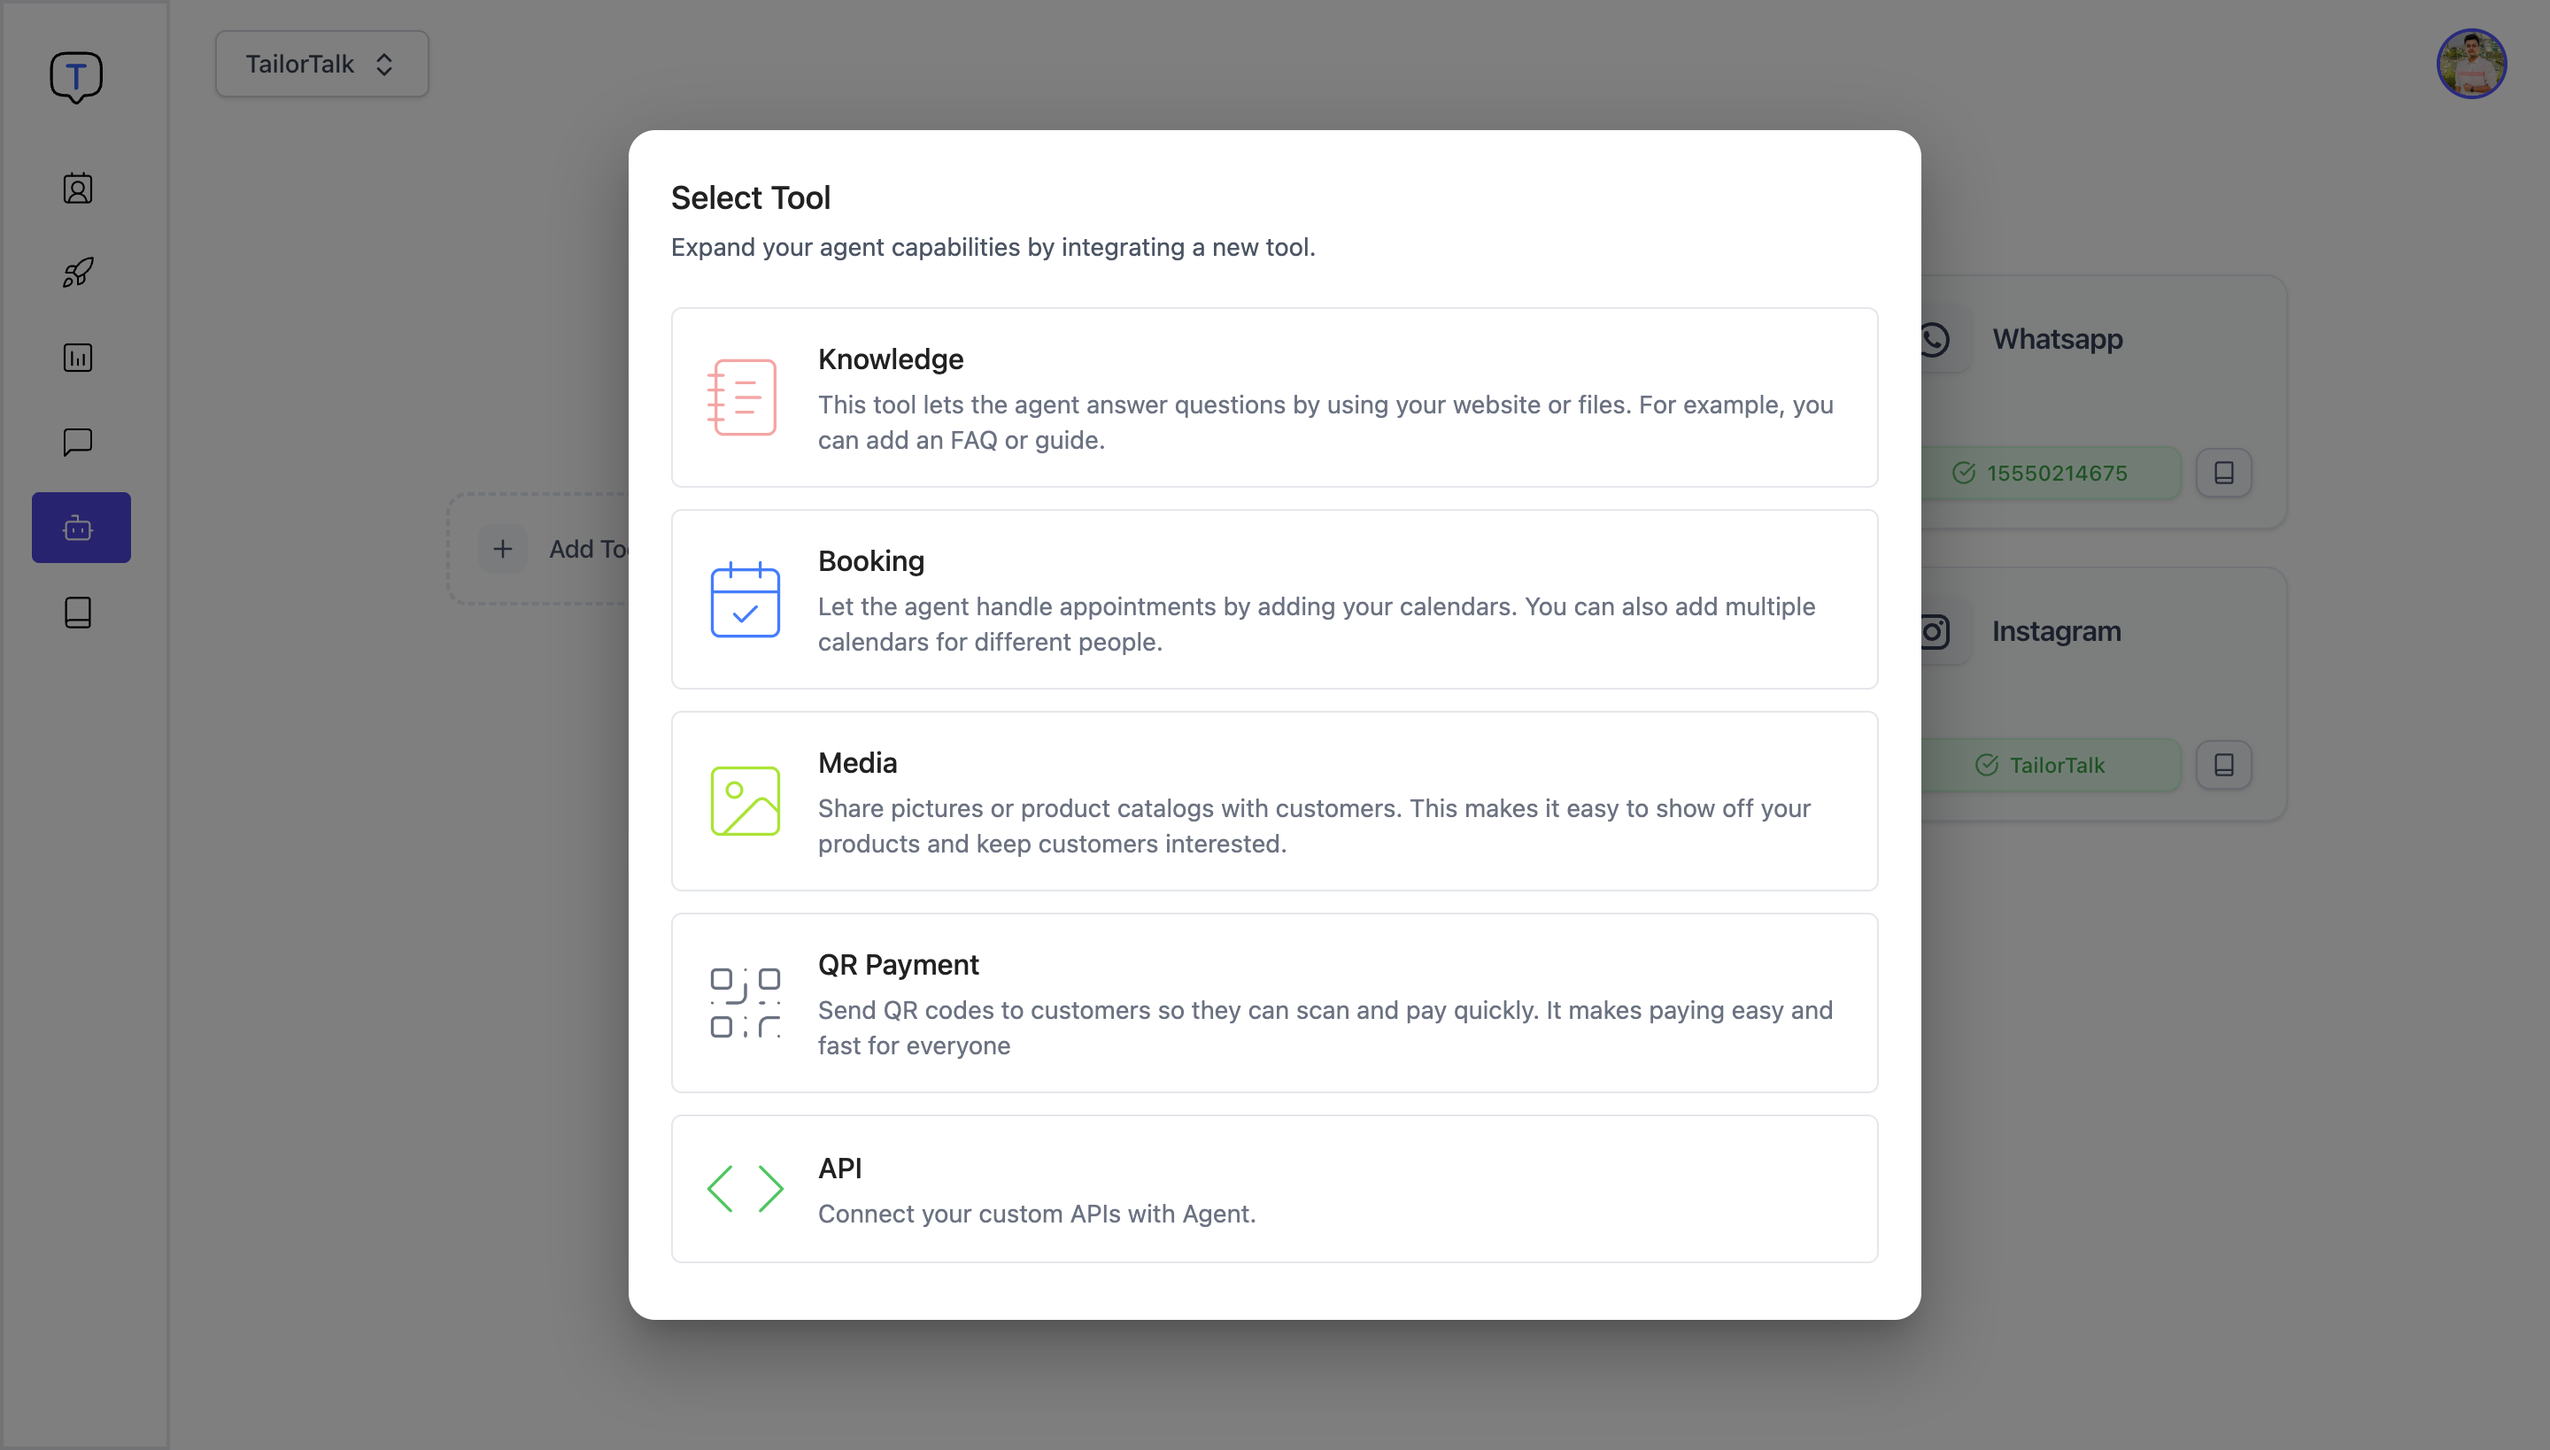
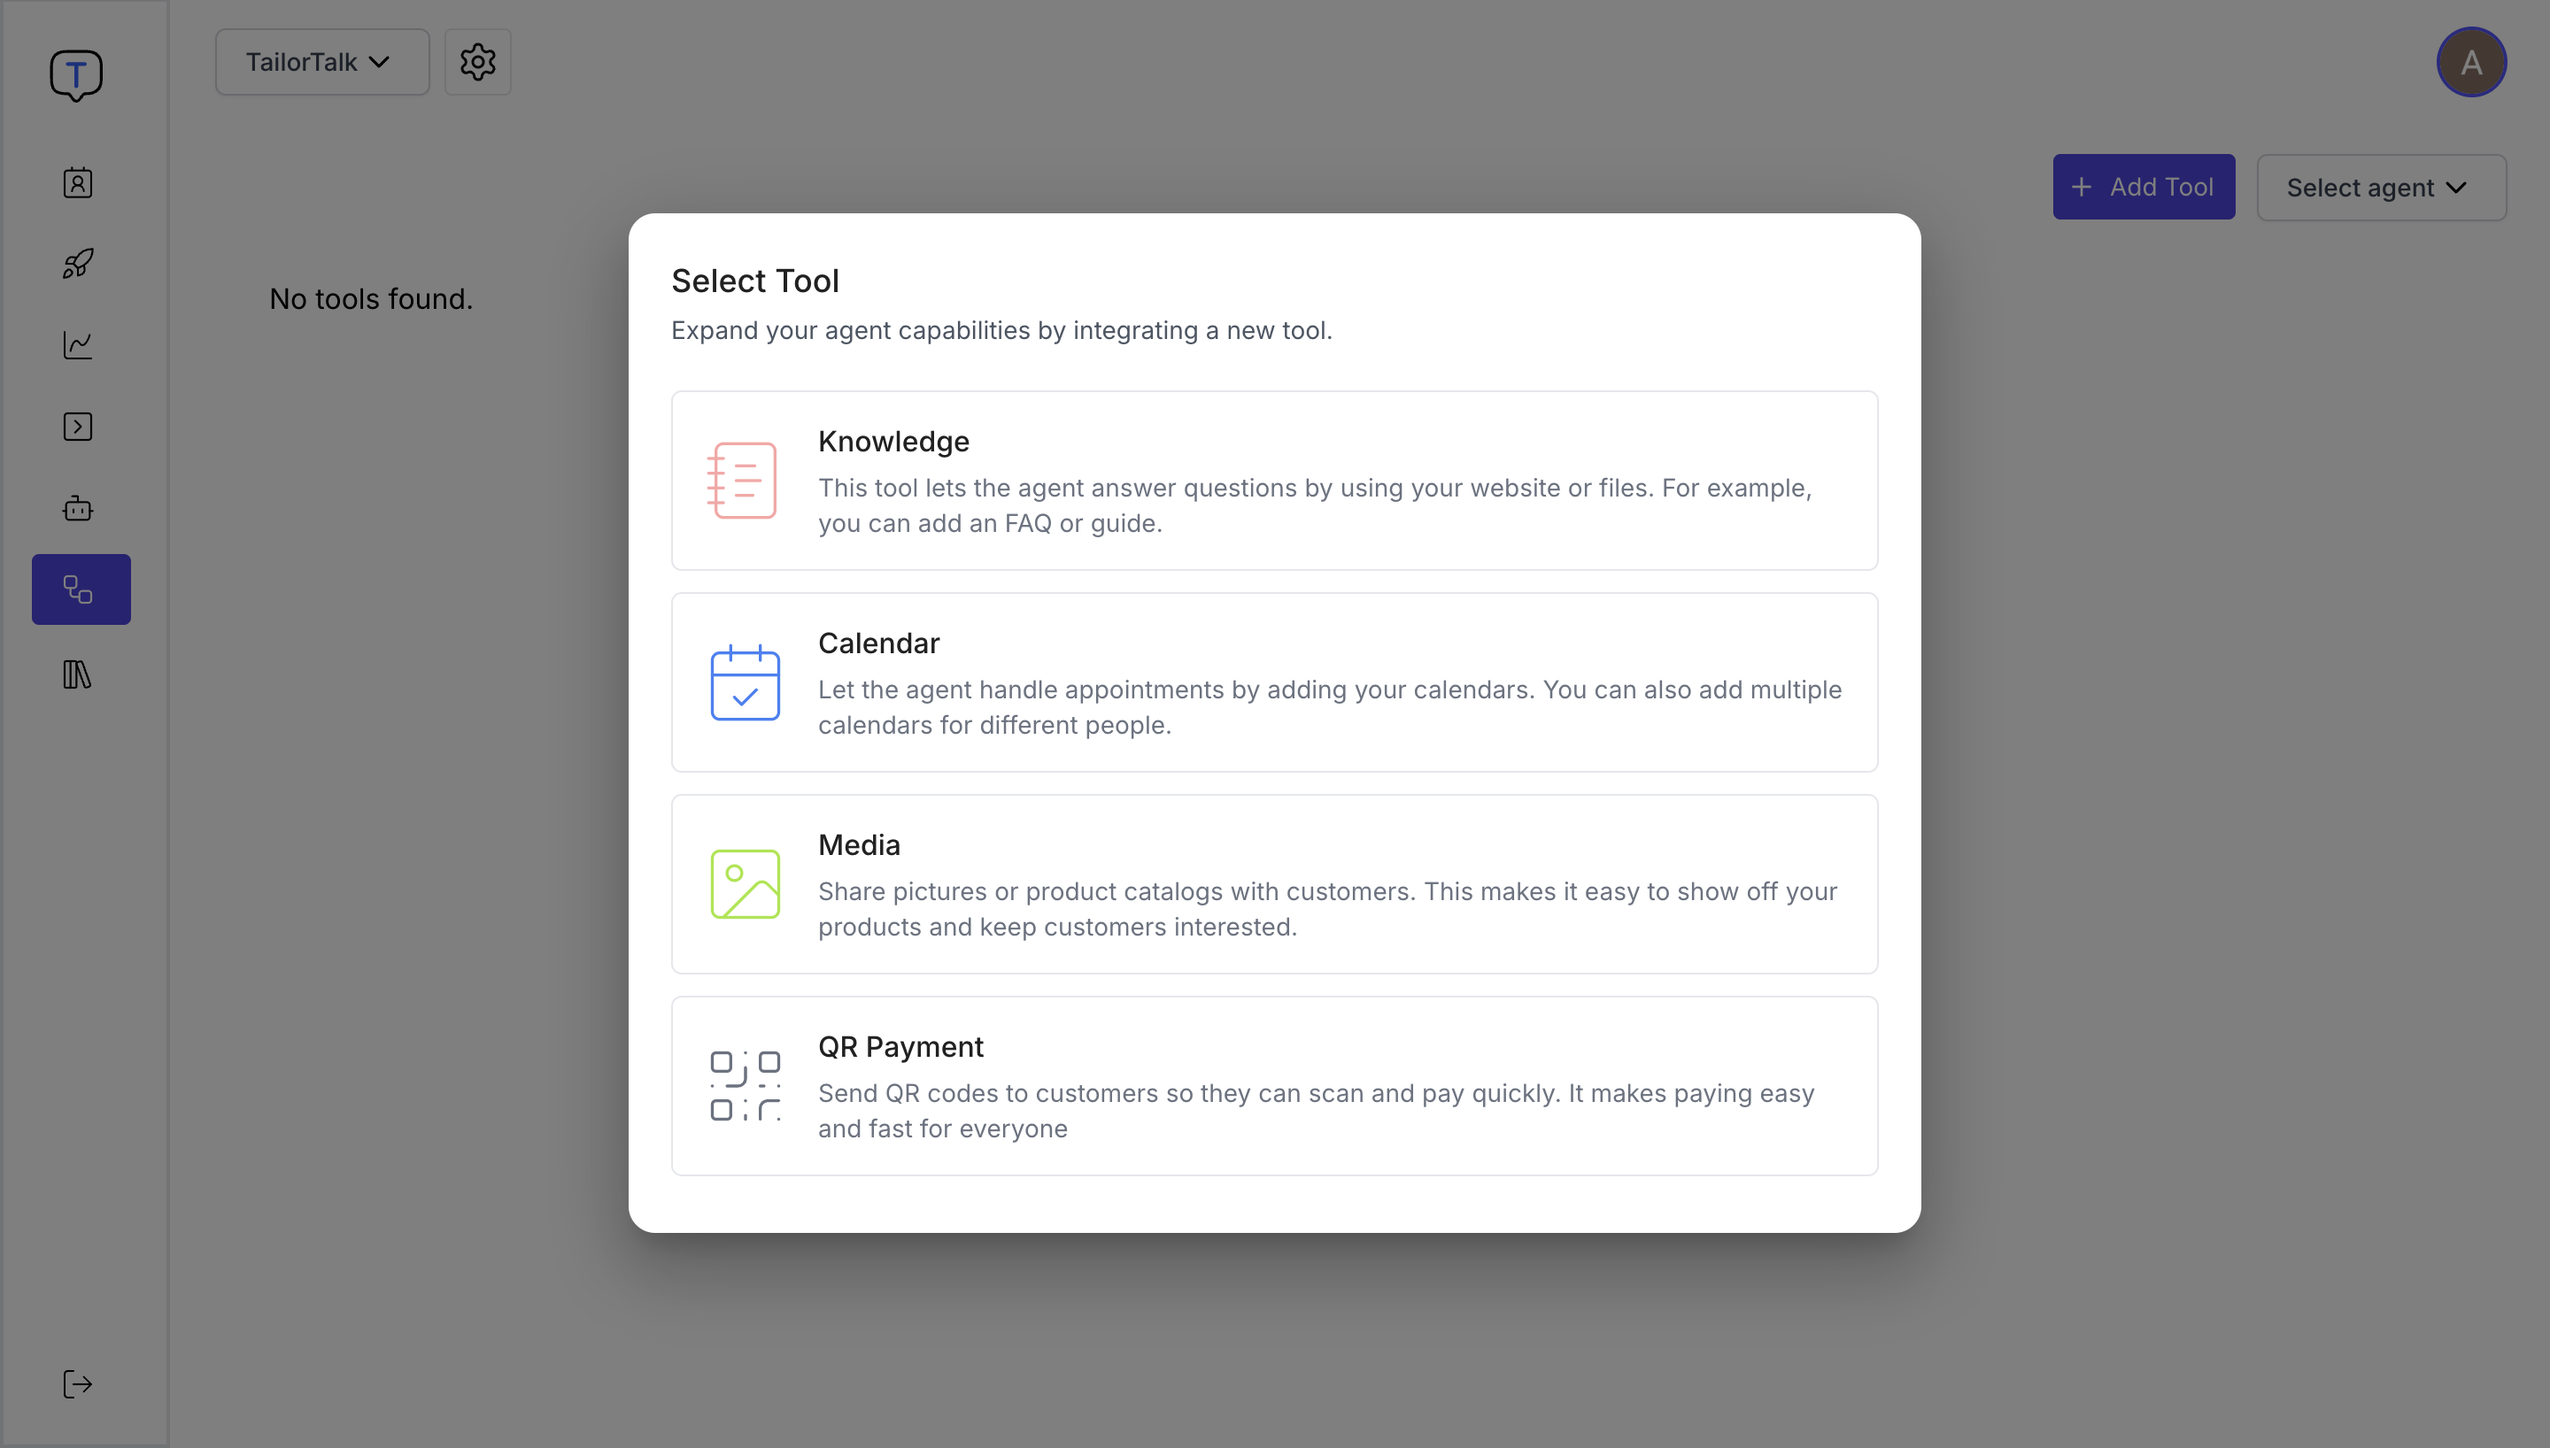
Refactor code structure for improved readability and maintainability

diff --git a/public/guide/content/tools/booking_tool.md b/public/guide/content/tools/booking_tool.md
@@ -1,37 +1,41 @@
 # Booking Tool
 
-The **Booking Tool** allows users to integrate single or multiple calendars with their AI agent. Once integrated, your TailorTalk agent can efficiently manage appointments and bookings, streamlining scheduling processes for various use cases.
+The **Booking Tool** empowers users to connect single or multiple calendars with their AI agent. Once integrated, your TailorTalk agent can efficiently manage appointments and bookings, streamlining scheduling processes for a variety of use cases.
 
-<img src="../images/booking_tool.png" alt="TailorTalk Agent Booking Tool Interface" width="50%" />
+<img src="../images/booking_tool.png" alt="TailorTalk Agent Booking Tool Interface" width="50%"/>
 
 ## Configuring the Booking Tool
-1. **Enter Calendar ID**: Enter Gmail ID associated with the calendar. This tells your TailorTalk agent which calendar to use.
-2. **Assign Calendar Labels**: You can define which calendar corresponds to which function. For example:
-   - `ceo@tailortalk.ai` → "CEO calendar"
-   - `cbo@gmail.com` → "CBO calendar"
 
-## Sharing Calendar with Your TailorTalk Agent
-To enable your TailorTalk agent to manage appointments, users need to share their calendar with Tailortalk. Follow these steps:
-1. Go to **Calendar Settings**.
-<img src="../images/calendar_settings.png" alt="text" width="40%" />
-2. Navigate to **Share with specific people or groups**.
-<img src="../images/share_navigation.png" alt="text" width="60%" />
-3. Click on **Add people and groups**.
-4. Add the service account **testcalendar@endless-lamp-269518.iam.gserviceaccount.com** with the required permissions.
-<img src="../images/add_account.png" alt="text" width="60%" />
-5. Change the **Permissions** to **Make changes and manage sharing**.
-<img src="../images/change_permissions.png" alt="text" width="60%" />
-6. Save the settings to enable the AI to schedule and manage bookings.
+1.  **Connect Your Google Calendar**: Use Google OAuth to securely add your desired calendars. This standard authentication method ensures your calendar data is handled safely.
+2.  **Assign Calendar Labels**: After connecting, you can assign descriptive labels to each calendar. This helps your agent identify the correct calendar for specific tasks. For example:
+    *   `ceo@tailortalk.ai` → "CEO's primary calendar"
+    *   `sales-team@company.com` → "Sales team demo calendar"
 
-## How Your TailorTalk Agent Works with Calendars
-Once the calendar is integrated and shared:
-- Your TailorTalk agent checks availability before booking an appointment
-- It can schedule based on user inputs and preferences
+## Enabling Your TailorTalk Agent to Access Your Calendar
 
-## Use Cases
-- **Book Personal Meetings with Leads**: Your TailorTalk agent automates scheduling of one-on-one calls
-- **Book Demos**: Your TailorTalk agent arranges product demonstrations with potential clients
-- **Book Test Rides**: Your TailorTalk agent manages test ride appointments for automotive businesses
-- **Clinic Appointments**: Your TailorTalk agent allows patients to book consultations seamlessly
+To allow your TailorTalk agent to manage appointments, you'll need to grant it access to your calendar(s). Follow these steps:
 
-By utilizing the **Calendar Tool**, businesses can eliminate manual scheduling, enhance customer experience, and improve overall productivity with automated appointment management.
+1.  Navigate to the **Booking Tool** and click the `+ Add Calendar` button.
+    <img src="../images/add_account.png" alt="Add Calendar button in Booking Tool" width="50%" />
+2.  From the pop-up window, select the Google account you wish to integrate.
+    <img src="../images/account_selection.png" alt="Google account selection pop-up" width="50%" />
+3.  Review the requested permissions and click **Allow** to grant access.
+    <img src="../images/allow_permissions.png" alt="Google permissions consent screen" width="50%" />
+4.  Save your settings. Your TailorTalk agent is now equipped to schedule and manage bookings on your behalf.
+    <img src="../images/save_booking.png" alt="Save booking tool settings" width="50%" />
+
+## How Your TailorTalk Agent Interacts with Calendars
+
+Once integrated and authorized:
+
+*   Your TailorTalk agent checks real-time availability before proposing or confirming appointments.
+*   It intelligently schedules new events based on user inputs, specified preferences, and existing calendar entries.
+
+## Common Use Cases
+
+*   **Automated Lead Meeting Scheduling**: Your agent can handle the back-and-forth of scheduling one-on-one calls with leads.
+*   **Seamless Demo Bookings**: Allow potential clients to book product demonstrations directly through your agent at their convenience.
+*   **Effortless Test Ride Appointments**: Streamline the booking process for test rides in automotive businesses.
+*   **Convenient Clinic Consultations**: Enable patients to easily book appointments for medical consultations.
+
+By utilizing the **Booking Tool**, businesses can significantly reduce manual scheduling efforts, enhance customer experience, and improve overall productivity through intelligent, automated appointment management.
